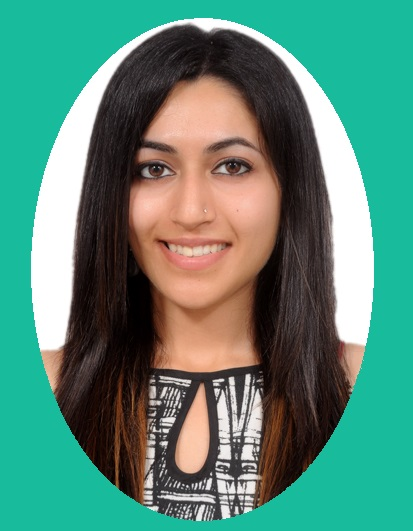
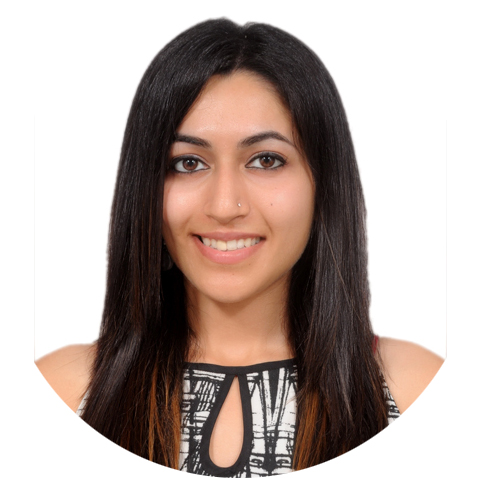
changed color scheme and profile pic

diff --git a/_includes/css/main.css b/_includes/css/main.css
@@ -58,11 +58,11 @@ hr.star-primary:after {
 }
 
 hr.star-light {
-    border-color: #fff;
+    border-color: #{{ site.color.secondary }};
 }
 
 hr.star-light:after {
-    color: #fff;
+    color: #{{ site.color.secondary }};
     background-color: #{{ site.color.primary }};
 }
 
@@ -81,7 +81,7 @@ hr.star-primary:after {
 
 header {
     text-align: center;
-    color: #fff;
+    color: #{{ site.color.secondary }};
     background: #{{ site.color.primary }};
 }
 
@@ -180,7 +180,7 @@ section h2 {
 }
 
 section.success {
-    color: #fff;
+    color: #{{ site.color.secondary }};
     background: #{{ site.color.primary }};
 }
 
